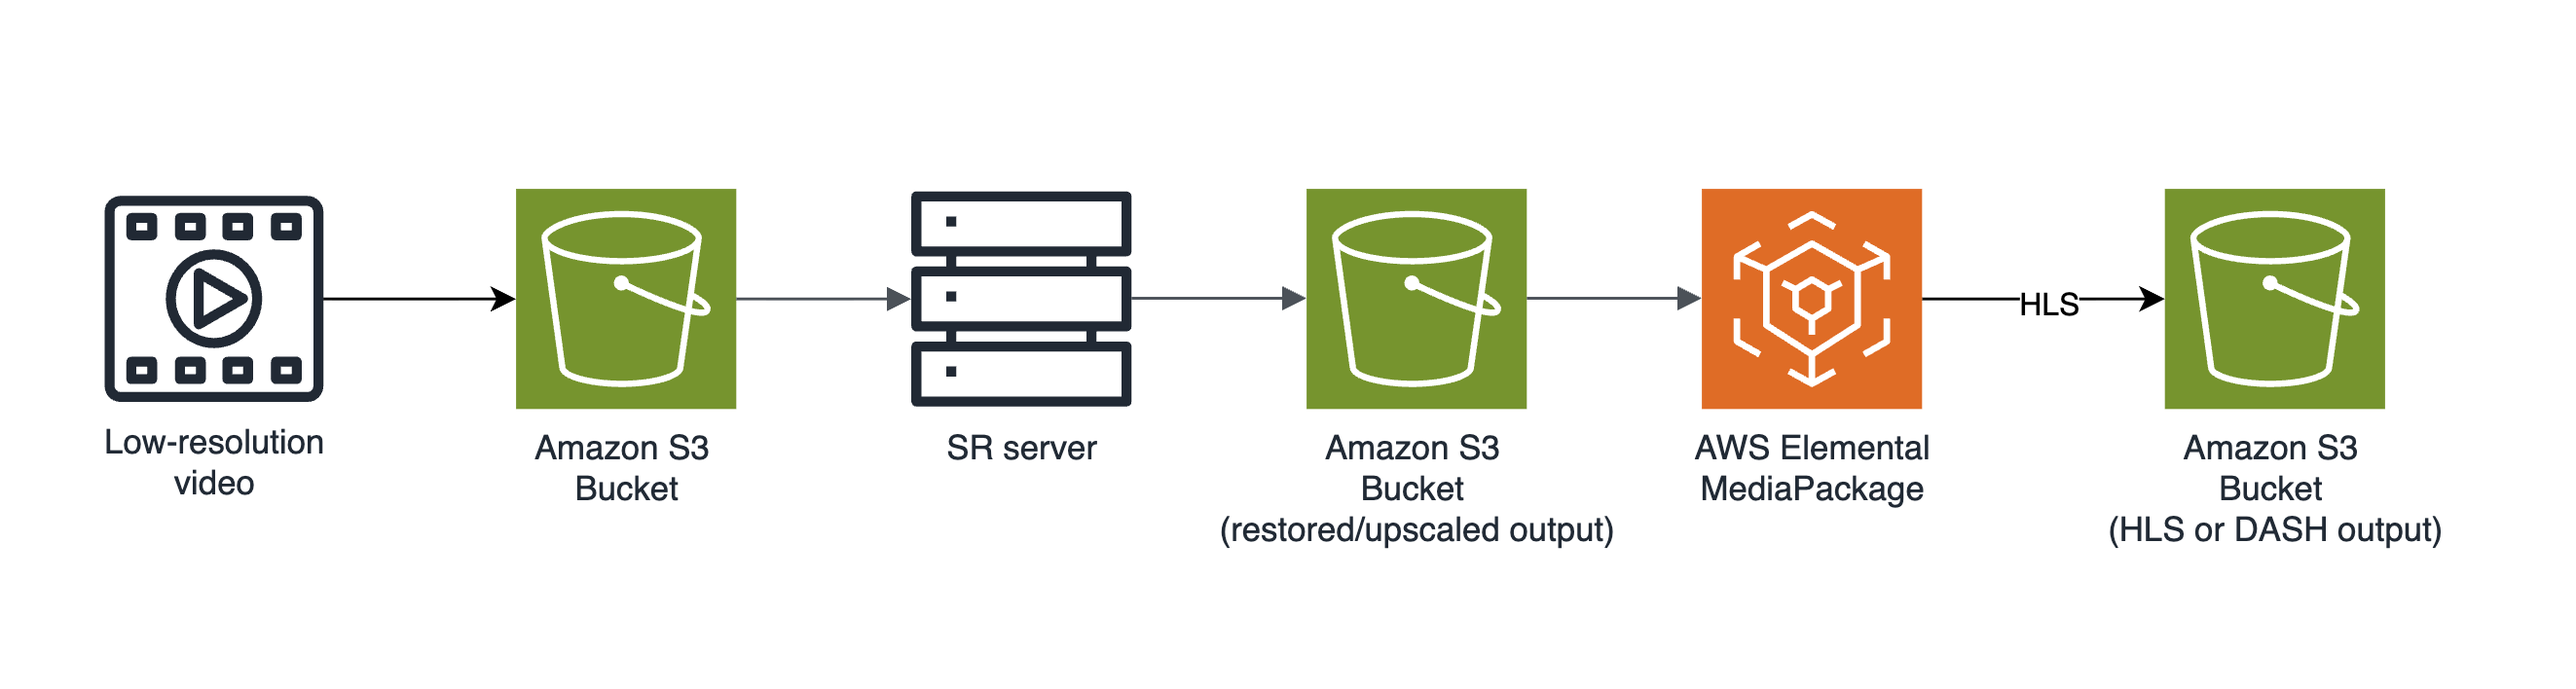
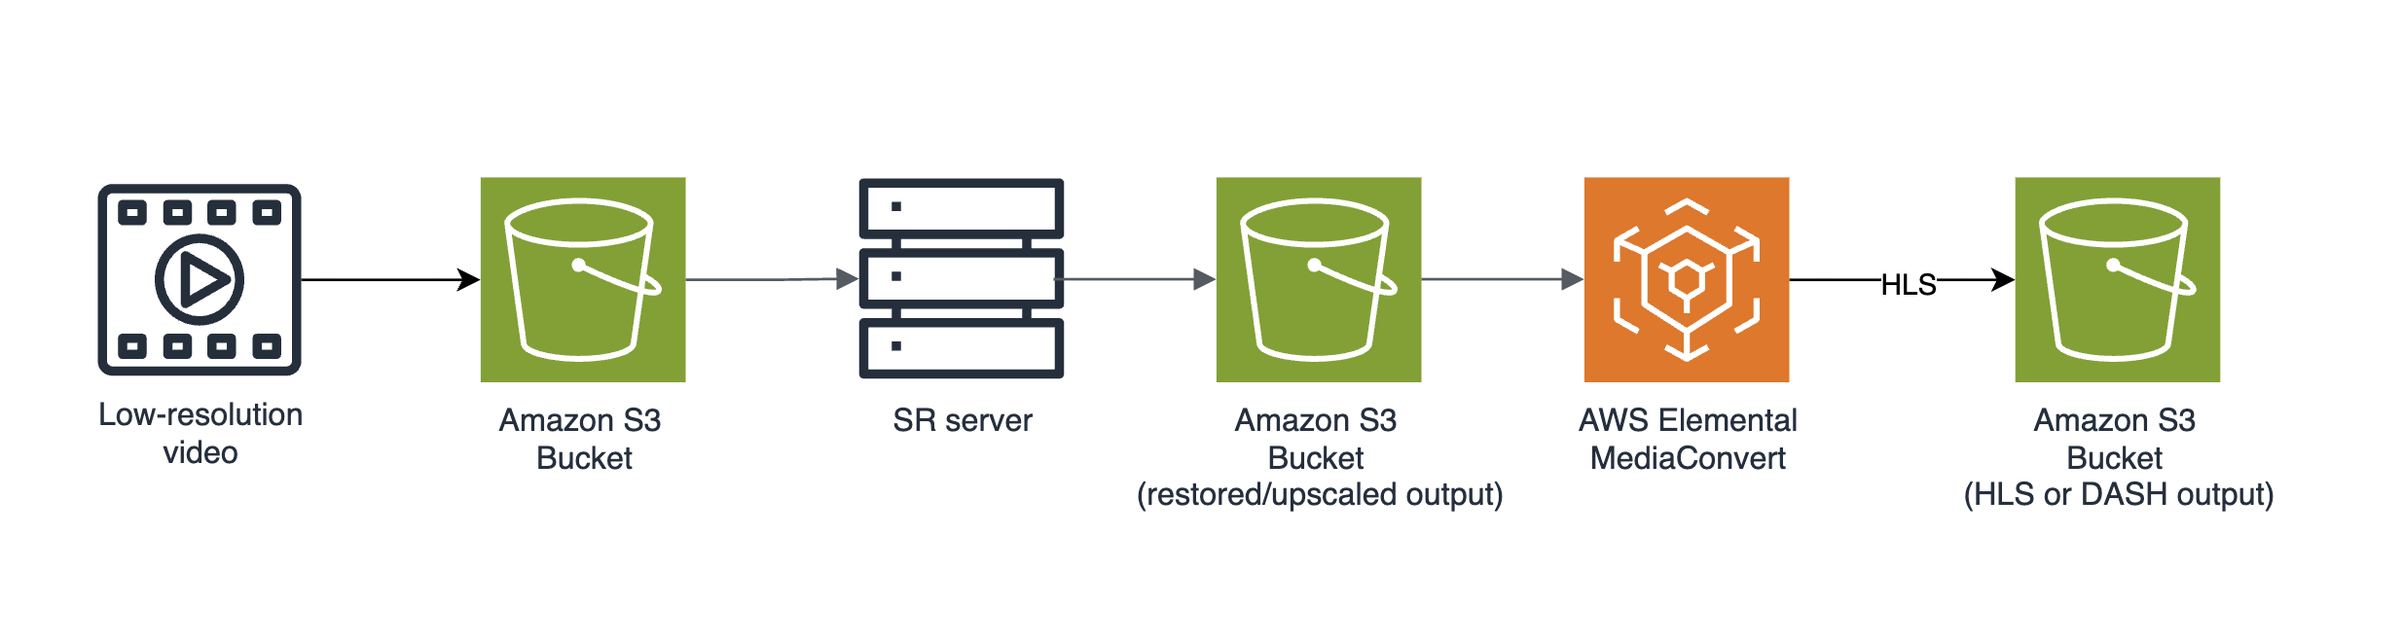
docs: Update README to change use case vod architecture

diff --git a/use-cases/vod.md b/use-cases/vod.md
@@ -14,12 +14,13 @@ Before you can use AWS Elemental MediaPackage and AWS S3, you need an AWS accoun
 
 ## Workflow
 
-### Step 1. Upload Source File
+### Step 1. Download source file from AWS S3
 
-Upload the orignal low-quality video to the designated AWS S3 input bucket.
+Download the original low-quality video from designated AWS S3 input bucket.
 
 ```bash
-aws s3 cp original_input.mp4 s3://<s3-input-bucktet-name>/original_input.mp4
+aws s3 cp s3://<s3-input-bucket-name>/original_input.mp4 ./
+download: s3://<s3-input-bucket-name>/original_input.mp4 to ./original_input.mp4
 ```
 
 ### Step 2. Run VSR Processing
@@ -35,7 +36,8 @@ ffmpeg -i original_input.mp4 -vf bdsr_aws=scale=2 -pix_fmt yuv420p -c:v libx264 
 Save the restored/upscaled video to the AWS S3 output bucket.
 
 ```bash
-aws s3 cp upscaled_x2.mp4 s3://<s3-output-bucktet-name>/upscaled_x2.mp4
+aws s3 cp upscaled_x2.mp4 s3://<s3-upscaled-bucket-name>/upscaled_x2.mp4
+upload: ./upscaled_x2.mp4 to s3://<s3-upscaled-bucket-name>/upscaled_x2.mp4
 ```
 
 ### Step 4. Create MediaConvert Job
@@ -67,7 +69,7 @@ aws s3 cp upscaled_x2.mp4 s3://<s3-output-bucktet-name>/upscaled_x2.mp4
 
 For detailed information on creating a MediaConvert job, see [Tutorial: Configuring job settings](https://docs.aws.amazon.com/mediaconvert/latest/ug/setting-up-a-job.html).
 
-### Step 5. Verify Output
+### Step 5. Check results
 
 When the MediaConvert job is complete :
 
